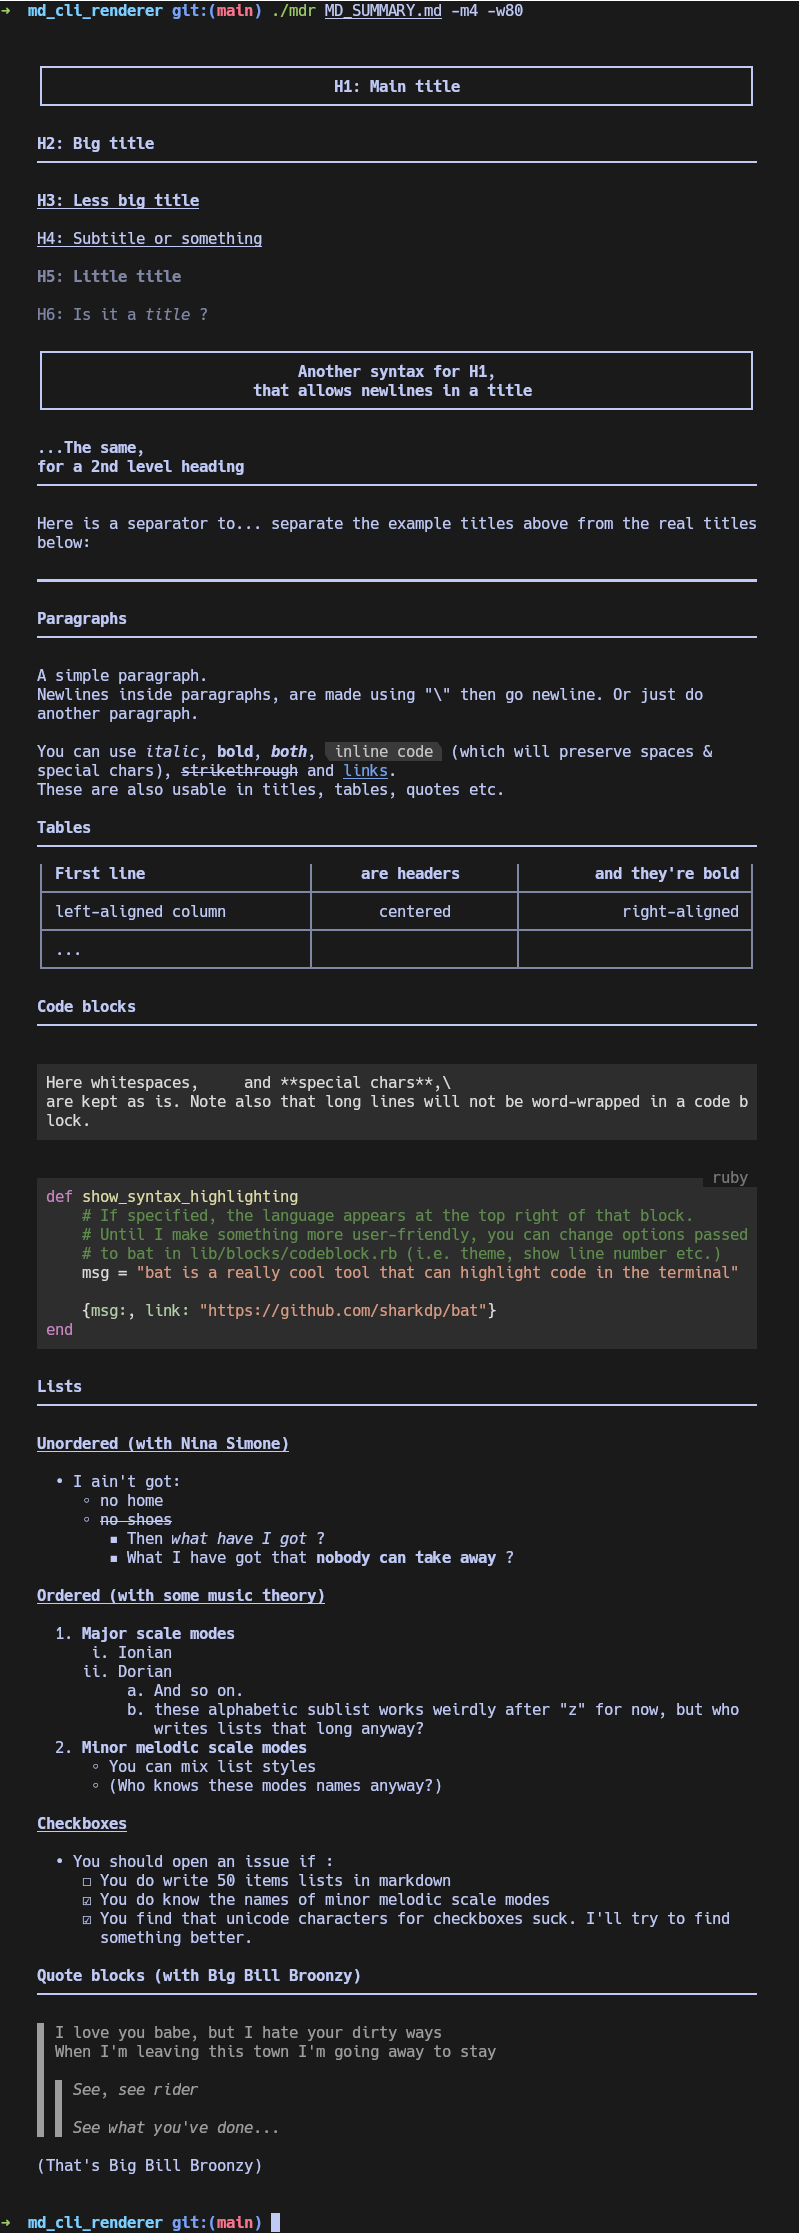
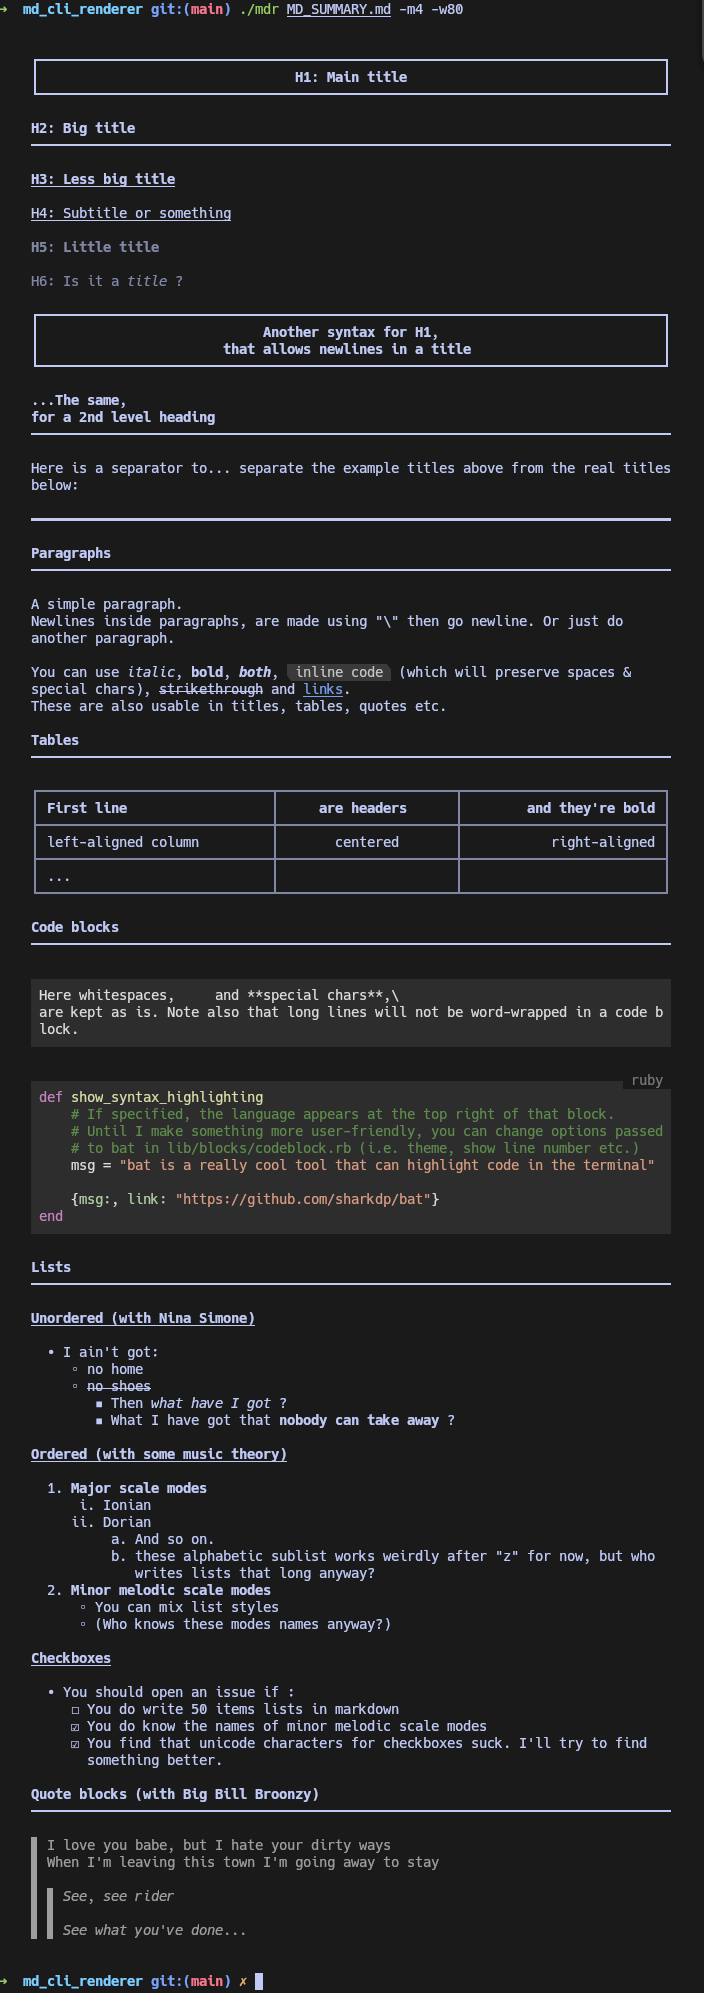
example

diff --git a/README.md b/README.md
@@ -42,7 +42,7 @@ Options:
 If you want to compare with raw markdown code or GitHub's style, the example's markdown file [is here](./MD_SUMMARY.md).
 
 <details>
-  <summary>Click here to see the example</summary>
+  <summary>**Click here to see the example**</summary>
 
   The terminal is Kitty with [Hack](https://github.com/source-foundry/Hack) font.
 

diff --git a/MD_SUMMARY.md b/MD_SUMMARY.md
@@ -91,5 +91,3 @@ When I'm leaving this town I'm going away to stay
 > >
 > > *See what you've done*
 > > ...
-
-(That's Big Bill Broonzy)
